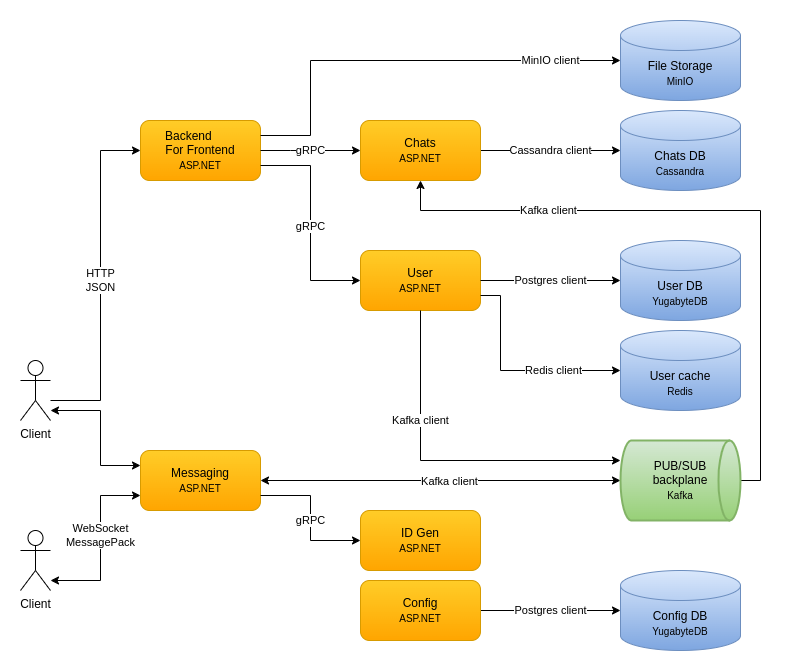
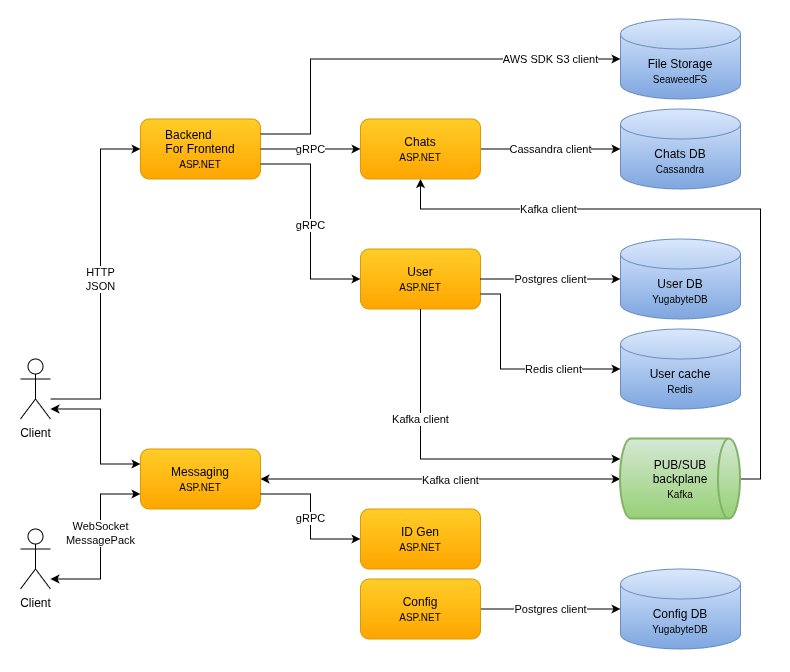
Update docs to say SeaweedFS: - Diagrams and images - Dev run and tech intro docs - README.md, CLAUDE.md

diff --git a/docs/dev-run-minikube.md b/docs/dev-run-minikube.md
@@ -10,7 +10,6 @@ Make sure that the [prerequisites](dev-run-prerequisites.md) have been met befor
   - YugabyteDB - 2 masters, 2 tservers
   - Cassandra - 2 nodes
   - Redis - 3 masters
-  - MinIO - 1 node
 * Observability
   - Telemetry - 2 OTel collectors
   - Tracing - 1 Jaeger all-in-one
@@ -68,7 +67,7 @@ Redis cluster is initialized manually by executing the content of the `cluster.s
 kubectl exec -it redis-0 -- bash
 ```
 
-The topics in Kafka, the keyspaces in Cassandra, the databases in Yugabyte, the buckets in MinIO, are all created when the respective service is started, if they do not exist.
+The topics in Kafka, the keyspaces in Cassandra, the databases in Yugabyte, the buckets in SeaweedFS, are all created when the respective service is started, if they do not exist.
 
 ## Observability
 
@@ -107,7 +106,7 @@ The Kubernetes ingresses expose the following services via the respective domain
   - `https://jaeger.cecochat.com` - traces in Jaeger
   - `https://kibana.cecochat.com` - logs in Kibana
 * Data
-  - `https://minio.cecochat.com` - MinIO files
+  - `https://seaweed.cecochat.com` - SeaweedFS files
 * Client
   - `https://bff.cecochat.com` - BFF service
   - `https://messaging.cecochat.com` - Messaging service
@@ -132,7 +131,6 @@ config   	cecochat 	1       	2023-12-19 12:08:51.637466328 +0200 EET	deployed	co
 idgen    	cecochat 	1       	2023-12-19 12:11:17.040213258 +0200 EET	deployed	idgen-0.1.0    	0.1.0      
 logging  	cecochat 	1       	2023-12-19 12:43:29.96052056 +0200 EET 	deployed	logging-0.1.0  	0.1.0      
 messaging	cecochat 	1       	2023-12-19 12:11:16.811841518 +0200 EET	deployed	messaging-0.1.0	0.1.0      
-minio   	cecochat 	1       	2023-12-19 12:13:26.551841517 +0200 EET	deployed	minio-0.1.0	    0.1.0      
 redis    	cecochat 	1       	2023-12-19 11:24:25.946219644 +0200 EET	deployed	redis-0.1.0    	0.1.0      
 telemetry	cecochat 	1       	2023-12-19 12:43:29.632952485 +0200 EET	deployed	telemetry-0.1.0	0.1.0      
 tracing  	cecochat 	1       	2023-12-19 12:43:29.798445504 +0200 EET	deployed	tracing-0.1.0  	0.1.0      
@@ -159,7 +157,6 @@ logging-es-0                                1/1     Running   0             88s
 logging-kibana-0                            1/1     Running   0             88s
 messaging-0                                 1/1     Running   0             33m
 messaging-1                                 1/1     Running   0             33m
-minio-0                                     1/1     Running   0             37m
 redis-0                                     1/1     Running   0             80m
 redis-1                                     1/1     Running   0             80m
 redis-2                                     1/1     Running   0             80m
@@ -188,7 +185,6 @@ logging-kibana             ClusterIP   None             <none>        5601/TCP  
 messaging                  ClusterIP   None             <none>        443/TCP                               34m
 messaging-0                ClusterIP   10.97.159.51     <none>        443/TCP                               34m
 messaging-1                ClusterIP   10.100.37.180    <none>        443/TCP                               34m
-minio                      ClusterIP   None             <none>        9000/TCP,9090/TCP                     37m
 redis                      ClusterIP   None             <none>        6379/TCP                              81m
 telemetry-otel-collector   ClusterIP   10.109.140.197   <none>        4317/TCP                              2m8s
 tracing-jaeger             ClusterIP   None             <none>        4317/TCP,5778/TCP,16686/TCP           2m8s
@@ -226,7 +222,6 @@ idgen             2/2     35m
 logging-es        1/1     3m2s
 logging-kibana    1/1     3m2s
 messaging         2/2     35m
-minio             1/1     37m
 redis             3/3     82m
 tracing-jaeger    1/1     3m3s
 yb-master         2/2     86m
@@ -240,7 +235,6 @@ bff              nginx   bff.cecochat.com         192.168.49.2   80, 443   35m
 config           nginx   config.cecochat.com      192.168.49.2   80, 443   37m
 logging-kibana   nginx   kibana.cecochat.com      192.168.49.2   80, 443   3m19s
 messaging        nginx   messaging.cecochat.com   192.168.49.2   80, 443   35m
-minio            nginx   minio.cecochat.com       192.168.49.2   80, 443   37m
 tracing-jaeger   nginx   jaeger.cecochat.com      192.168.49.2   80, 443   3m20s
 ```
 
@@ -276,7 +270,6 @@ data-cassandra-0         Bound    pvc-f94f74de-008f-446f-8003-f44cf2b65d4b   1Gi
 data-cassandra-1         Bound    pvc-2aa65930-bef4-4e85-8bab-c5abb0568456   1Gi        RWO            standard       17d
 data-logging-es-0        Bound    pvc-9f6817a1-5f5c-4961-ba8f-c16f57c24cf9   1Gi        RWO            standard       15d
 data-logging-kibana-0    Bound    pvc-f4946348-2db1-48d7-b489-911e577c5190   512Mi      RWO            standard       15d
-data-minio-0             Bound    pvc-aa2bc4d4-cd32-4bd6-8040-cc90e544a2df   1Gi        RWO            standard       38m
 data-redis-0             Bound    pvc-e9fbdc04-6b5b-48a4-a724-6d2f4f0516cd   128Mi      RWO            standard       82m
 data-redis-1             Bound    pvc-5b28d789-1829-4bc9-8f48-c26d6e3d29d6   128Mi      RWO            standard       82m
 data-redis-2             Bound    pvc-8f75ae4d-20fe-400e-acff-d8745cff42d7   128Mi      RWO            standard       82m

diff --git a/CLAUDE.md b/CLAUDE.md
@@ -34,7 +34,7 @@ Most functional areas follow the same project split, visible in the solution fol
 * **Messaging service** — the real-time send/receive path (`docs/design-messaging.md`). Each instance owns a fixed subset of Kafka partitions (`Hash(RecipientID) % PartitionCount`, FNV hash, verified in `Check.Hashing`); clients connect to whichever instance owns their partition, so the client-routing hash and the Kafka-partitioning hash must stay the same function. Kafka producers pick partitions manually (not Kafka's default auto-partitioning) because the service is stateful per-connection. Per-client message queues are bounded, so a slow client can have messages dropped — clients detect gaps via per-message counters and backfill from the Chats service (`docs/research-reliable-messaging-consistency.md`).
   - **Partition reassignment**: the Config service can live-reassign which server owns which partition sub-range without changing `PartitionCount` (the modulus stays fixed; only ownership moves). The physical Kafka partition count is a hardcoded ceiling set at topic-creation time (`CecoChat.Backplane/BackplaneInit.cs`, 12 in dev) — size it for the environment.
 * **Chats service** — materializes the Kafka backplane stream into Cassandra: user chat state (newest message ID per chat) and full chat history, both the source of truth for their respective concerns (`docs/design-chats.md`). Chat state updates use a load-then-conditionally-write pattern instead of Cassandra lightweight transactions, deliberately, to avoid the latency/replica-contact cost of LWTs — safe here because each Kafka partition is consumed single-threaded and a user's messages always land in one partition.
-* **User service** — registration/auth/profile/connections/files (`docs/design-users.md`). Passwords: PBKDF2-SHA512, 1,000,000 iterations, per-user salt, with a version token so the algorithm/iteration count can evolve later. User search uses PostgreSQL `pg_trgm` trigram indexes (min 3-char pattern, results capped and cached). Public profiles and connections are cached with TTL expiry; connection-change notifications don't invalidate the cache, an accepted tradeoff given low write frequency. User files are immutable, size-capped by `Files:MaxUploadedFileBytes` in `CecoChat.Bff.Service/appsettings.json` (10MB; note `docs/design-users.md` still says 512KB), stored in MinIO in per-day buckets (grouped by time, not by user, for predictable bucket sizes).
+* **User service** — registration/auth/profile/connections/files (`docs/design-users.md`). Passwords: PBKDF2-SHA512, 1,000,000 iterations, per-user salt, with a version token so the algorithm/iteration count can evolve later. User search uses PostgreSQL `pg_trgm` trigram indexes (min 3-char pattern, results capped and cached). Public profiles and connections are cached with TTL expiry; connection-change notifications don't invalidate the cache, an accepted tradeoff given low write frequency. User files are immutable, size-capped by `Files:MaxUploadedFileBytes` in `CecoChat.Bff.Service/appsettings.json` (10MB), stored in SeaweedFS in per-day buckets (grouped by time, not by user, for predictable bucket sizes).
 * **IdGen service** — generates Snowflake-style message IDs (timestamp-ordered), used by Chats to detect "newest" without a full ordering guarantee across Kafka partitions.
 * **BFF service** — the HTTP entry point clients use to reach User/Chats/File storage; also needs partition/server-address config to route to the right Messaging instance.
 
@@ -43,7 +43,7 @@ Most functional areas follow the same project split, visible in the solution fol
 * `Components` — one group per service area (Backplane, BFF, Chats, Config, IdGen, Messaging, User), each containing that area's applicable Contracts/Data/Service/Client projects (not every area has all four — e.g. `Backplane` is a single project with no client/data split).
 * `ClientApp` — `CecoChat.ConsoleClient` (manual testing) and `CecoChat.LoadTester`.
 * `Shared` — project-specific code reusable across services: `CecoChat.Server` (host bootstrap referenced by every `*.Service` project — entry point, exception handling, Serilog config, identity/auth registrations, observability wiring), `CecoChat.Data` (shared validation rules and data utilities), `CecoChat.Config` (legacy client-side dynamic-config abstraction — `IConfigChangeSubscriber`, `IRepo`, `ConfigSection`/`ConfigKeys`), and `CecoChat.Testing`.
-* `Common` and `Common.<Tech>` (Cassandra, Kafka, Minio, Npgsql, OpenTelemetry, Redis, AspNet, Testing) — technology-oriented code with no CecoChat-specific knowledge, reusable in other projects.
+* `Common` and `Common.<Tech>` (Cassandra, Kafka, Seaweed, Npgsql, OpenTelemetry, Redis, AspNet, Testing) — technology-oriented code with no CecoChat-specific knowledge, reusable in other projects.
 
 ## Conventions not visible from a single file
 

diff --git a/docs/intro-technologies.md b/docs/intro-technologies.md
@@ -3,7 +3,7 @@
 The technologies chosen are [cloud-agnostic](https://codersociety.com/blog/articles/cloud-agnostic) which makes the solution independent of a specific cloud provider.
 
 * Integration - Kafka, gRPC, WebSocket, HTTP
-* Data storage - Yugabyte, Cassandra, MinIO, Redis
+* Data storage - Yugabyte, Cassandra, SeaweedFS, Redis
 * Operations - OpenTelemetry, Docker, Kubernetes
 * Services - .NET, ASP.NET, SignalR, EF Core
 * Libraries - Autofac, Serilog, FluentValidation, AutoMapper, Polly, IdGen
@@ -95,18 +95,16 @@ Chats database is based on Cassandra:
 
 # File storage
 
-![Minio](tech-images/minio.webp)
+![SeaweedFS](tech-images/seaweed.png)
 
-File storage is based on MinIO:
+File storage is based on SeaweedFS:
+* open-source software
 * object store - stores both file and metadata
-* horizontally scalable
-* supports multi-site replication
-* has global identity and access management
-* supports bucket encryption
-* supports immutability and versioning of objects
-* provides tools for monitoring
-* provides data-management interfaces
-* HTTP-accessible with a native client out of the box
+* designed for many files - small-file reads and writes need a single disk seek
+* horizontally scalable - separate components can be scaled independently
+* supports replication, including cross-data-center and cross-cluster
+* supports erasure coding and tiering of cold data to cloud storage
+* supports server-side encryption
 * AWS S3-compatible
 
 # Dynamic configuration

diff --git a/docs/dev-run-docker.md b/docs/dev-run-docker.md
@@ -10,7 +10,7 @@ Make sure that the [prerequisites](dev-run-prerequisites.md) have been met befor
   - YugabyteDB - 1 master, 1 tserver
   - Cassandra - 2 nodes
   - Redis - 3 masters
-  - MinIO - 1 node
+  - SeaweedFS - 1 master, 1 volume, 1 filer, 1 s3 gateway
 * Observability
   - Telemetry - 1 OTel collector
   - Tracing - 1 Jaeger all-in-one
@@ -29,7 +29,7 @@ Make sure that the [prerequisites](dev-run-prerequisites.md) have been met befor
 * Cassandra
 * YugabyteDB
 * Redis
-* MinIO
+* SeaweedFS
 * Logging
 
 **After** the containers are ran the following steps need to be performed manually:
@@ -68,7 +68,7 @@ The convenience of `docker compose` makes it possible to run exactly what is nee
   - `docker compose -f kafka.yml up -d`
   - `docker compose -f yugabyte.yml up -d`
   - `docker compose -f redis.yml up -d`
-  - `docker compose -f minio.yml up -d`
+  - `docker compose -f seaweed.yml up -d`
   - Run the BFF service from the IDE to make queries
   - Run the Messaging services to receive connection notifications
 * Working on observability:

diff --git a/README.md b/README.md
@@ -41,7 +41,7 @@ Check out [what next](docs/what-next.md) needs to be implemented. I appreciate a
 * [Configurable](docs/design-configuration.md), [observable](docs/design-observability.md), [containerized and runnable](docs/dev-run-prerequisites.md), [deployable](docs/design-deployment.md) local environment
 * [Main technologies](docs/intro-technologies.md)
   - Integration - Kafka, gRPC, WebSocket, HTTP
-  - Data storage - Yugabyte, Cassandra, MinIO, Redis
+  - Data storage - Yugabyte, Cassandra, SeaweedFS, Redis
   - Operations - OpenTelemetry, Docker, Kubernetes
   - Services - .NET, ASP.NET, SignalR, EF Core
   - Libraries - Autofac, Serilog, FluentValidation, AutoMapper, Polly, IdGen
